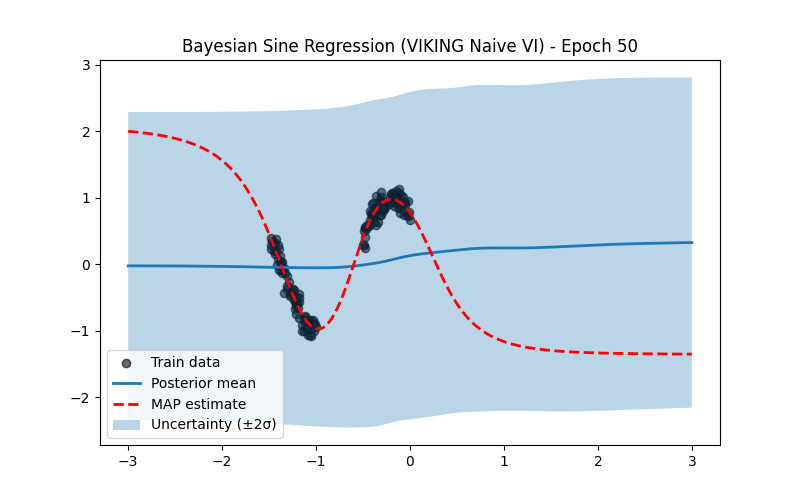
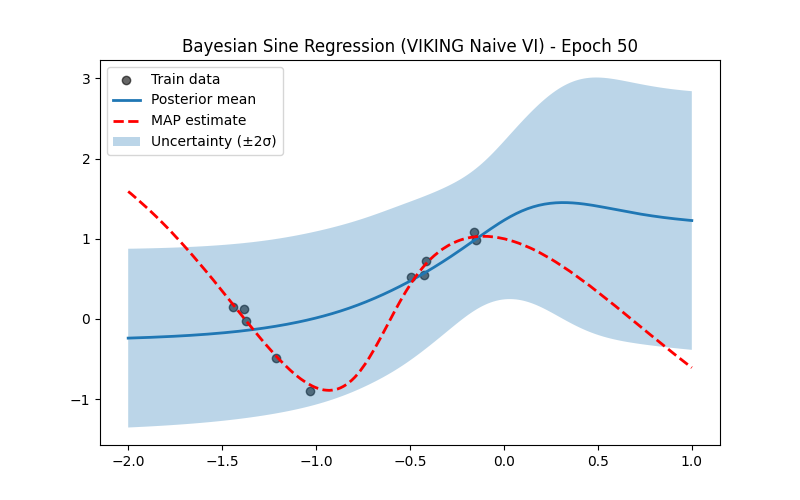
results with new prior kinda make sense. alpha still broken

diff --git a/experiments/VIKING_sine_curve_GGN.py b/experiments/VIKING_sine_curve_GGN.py
@@ -8,11 +8,10 @@ import sys
 sys.path.append(os.path.abspath(os.path.join(os.path.dirname(__file__), '..')))
 
 from src.models.sinenet import SineNet
-from src.sampling import calculate_UUt, calculate_UUt_svd, sample_theta
+from src.sampling import calculate_UUt_svd, sample_theta
 from src.utils import vectorize_nn
 from src.losses import sse_loss
 from src.plotting.naive_sine_plots import plot_bayesian_samples_with_mean, plot_mean_bayesian_with_MAP, predict_and_plot_bayesian_mean_for_epoch
-from src.data.sinedata import generate_data, generate_sine_data
 
 N = 10
 SEED = 42
@@ -31,9 +30,12 @@ def reconstruction_term(model_fn_vec, thetas, x, y):
     return jnp.mean(log_likelihoods)
 
 # KL term of the ELBO
-def KL_term(prior_vec, theta_hat, sigma_ker, sigma_im, eps_samples, eps_ker_samples, rank_ker=None):
-    sigma_ker_2 = jnp.exp(2*sigma_ker)
-    sigma_im_2 = jnp.exp(2*sigma_im)
+def KL_term(prior_vec, theta_hat, log_sigma_ker, log_sigma_im, eps_samples, eps_ker_samples, rank_ker=None):
+    sigma_ker = jnp.exp(log_sigma_ker)
+    sigma_im = jnp.exp(log_sigma_im)
+    sigma_ker_2 = jnp.pow(sigma_ker, 2)
+    sigma_im_2 = jnp.pow(sigma_im, 2)
+
     prior_vec_inv = 1.0 / prior_vec
     num_samples, D = eps_samples.shape
     hadamard_eps = eps_samples * eps_ker_samples
@@ -47,14 +49,18 @@ def KL_term(prior_vec, theta_hat, sigma_ker, sigma_im, eps_samples, eps_ker_samp
     ln_det_prior = jnp.sum(jnp.log(prior_vec))
 
     R = jnp.mean(jnp.sum(eps_samples * eps_ker_samples, axis=1))
-    ln_det_post = 2 * R * sigma_ker + 2 * (D - R) * sigma_im
+    ln_det_post = 2 * R * log_sigma_ker + 2 * (D - R) * log_sigma_im
+    kl = 0.5 * (trace - D + middle_term + ln_det_prior - ln_det_post)
 
-    return 0.5 * (trace - D + middle_term + ln_det_prior - ln_det_post)
+    return kl / float(D)
 
 # KL Term from the paper for debugging purposes
-def KL_term_alpha(theta_hat, sigma_ker, sigma_im, eps_samples, eps_ker_samples, rank_ker=None):
-    sigma_ker_2 = jnp.exp(2*sigma_ker)
-    sigma_im_2 = jnp.exp(2*sigma_im)
+def KL_term_alpha(theta_hat, log_sigma_ker, log_sigma_im, eps_samples, eps_ker_samples, rank_ker=None):
+    sigma_ker = jnp.exp(log_sigma_ker)
+    sigma_ker_2 = jnp.pow(sigma_ker, 2)
+    sigma_im = jnp.exp(log_sigma_im)
+    sigma_im_2 = jnp.pow(sigma_im, 2)
+
     alpha = 1.0 / sigma_ker_2
     num_samples, D = eps_samples.shape
 
@@ -68,13 +74,15 @@ def KL_term_alpha(theta_hat, sigma_ker, sigma_im, eps_samples, eps_ker_samples, 
     trace = sigma_ker_2 * R + sigma_im_2 * (D - R)
 
     # Ln(Σ)
-    ln_det_post = 2 * R * sigma_ker + 2 * (D - R) * sigma_im
-
-    return 0.5 * (
+    ln_det_post = 2 * R * log_sigma_ker + 2 * (D - R) * log_sigma_im
+    
+    kl = 0.5 * (
         alpha * trace - D + alpha * (jnp.pow(jnp.linalg.norm(theta_hat), 2)) - D * jnp.log(alpha) - ln_det_post
     )
 
-# 5. Loss function (negative ELBO) that needs to be optimized with gradient descent
+    return kl / float(D)
+
+# Loss function (negative ELBO) that needs to be optimized with gradient descent
 def loss_fn(params_opt, model_fn_vec, UUt, x, y, sample_key, prior_vec, rank_ker=None):
     thetas, eps_samples, eps_ker_samples = sample_theta(
         key=sample_key,
@@ -89,23 +97,14 @@ def loss_fn(params_opt, model_fn_vec, UUt, x, y, sample_key, prior_vec, rank_ker
     rec_term = reconstruction_term(model_fn_vec, thetas, x, y)
 
     # KL term
-    """ kl = KL_term(
+    kl = KL_term(
         prior_vec=prior_vec,
         theta_hat=params_opt["theta"],
-        sigma_ker=params_opt["sigma_ker"],
-        sigma_im=params_opt["sigma_im"],
+        log_sigma_ker=params_opt["sigma_ker"],
+        log_sigma_im=params_opt["sigma_im"],
         eps_samples=eps_samples,
         eps_ker_samples=eps_ker_samples,
         rank_ker=rank_ker
-    ) """
-
-    kl = KL_term_alpha(
-        theta_hat=params_opt["theta"],
-        sigma_ker=params_opt["sigma_ker"],
-        sigma_im=params_opt["sigma_im"],
-        eps_samples=eps_samples,
-        eps_ker_samples=eps_ker_samples,
-        rank_ker = rank_ker
     )
 
     elbo = rec_term - kl
@@ -113,19 +112,18 @@ def loss_fn(params_opt, model_fn_vec, UUt, x, y, sample_key, prior_vec, rank_ker
     return -elbo, (rec_term, kl)
 
 def main():
-    prior_key, post_key, model_key, data_key = jax.random.split(jax.random.PRNGKey(SEED), num=4)
+    prior_key, post_key, model_key = jax.random.split(jax.random.PRNGKey(SEED), num=3)
 
     with open("./checkpoints/sine_regression.pickle", "rb") as f:
         checkpoint = pickle.load(f)
 
-    #x_train = checkpoint["train_stats"]["x_train"]
-    #y_train = checkpoint["train_stats"]["y_train"]
-    x_train, y_train = generate_data(n_train=10, key=data_key)
+    x_train = checkpoint["train_stats"]["x_train"]
+    y_train = checkpoint["train_stats"]["y_train"]
 
     params_dict_map = checkpoint["params"]
     model_map = checkpoint["train_stats"]["model"]
 
-    model_new = SineNet(out_dims=1, hidden_dim=8 ,num_layers=2)
+    model_new = SineNet(out_dims=1, hidden_dim=16 ,num_layers=2)
     params_new = model_new.init(model_key, x_train[:2])
 
     params_vec, unflatten, model_fn_vec = vectorize_nn(lambda p, x: model_new.apply(p, x), params_new)
@@ -142,7 +140,7 @@ def main():
     _, sample_key = jax.random.split(jax.random.PRNGKey(SEED))
 
     params_opt = {
-        #"prior_vec": prior_vec,
+        "prior_vec": prior_vec,
         "theta": params_vec,
         "sigma_ker": jnp.log(sigma_kernel),
         "sigma_im": jnp.log(sigma_image),
@@ -152,22 +150,45 @@ def main():
     optimizer = optax.adam(learning_rate=schedule)
     opt_state = optimizer.init(params_opt)
 
+    def loss_fn(params_opt, UUt, x, y, sample_key, prior_vec, rank_ker=None):
+        thetas, eps_samples, eps_ker_samples = sample_theta(
+            key=sample_key,
+            num_samples=100,
+            UUt=UUt,
+            theta_hat=params_opt["theta"],
+            sigma_ker=params_opt["sigma_ker"],
+            sigma_im=params_opt["sigma_im"]
+        )
+        # koristi model_fn_vec iz scope-a
+        rec_term = reconstruction_term(model_fn_vec, thetas, x, y)
+        kl = KL_term(
+            prior_vec=prior_vec,
+            theta_hat=params_opt["theta"],
+            log_sigma_ker=params_opt["sigma_ker"],
+            log_sigma_im=params_opt["sigma_im"],
+            eps_samples=eps_samples,
+            eps_ker_samples=eps_ker_samples,
+            rank_ker=rank_ker
+        )
+        elbo = rec_term - kl
+        return -elbo, (rec_term, kl)
+
+    num_epochs, log_every, plot_epochs = 4500, 75, [5, 25, 50, 100, 250, 500, 1000, 1500, 2000, 2500, 3000, 3500, 4000]
+    params_opt_current, opt_state_current, training_key = params_opt, opt_state, sample_key
+
     @jax.jit
-    def train_step(params_opt, opt_state, UUt, key, rank_ker):
+    def train_step(params_opt, opt_state, key):
+        UUt, rank_ker = calculate_UUt_svd(model_fn_vec, params_opt["theta"], x_train, y_train)
         key, subkey = jax.random.split(key)
         grad_fn = jax.value_and_grad(loss_fn, argnums=0, has_aux=True)
-        (loss, (rec_term, kl)), grads = grad_fn(params_opt, model_fn_vec, UUt, x_train, y_train, subkey, prior_vec, rank_ker)
+        (loss, (rec_term, kl)), grads = grad_fn(params_opt, UUt, x_train, y_train, subkey, prior_vec, rank_ker)
         updates, opt_state = optimizer.update(grads, opt_state)
         params_opt = optax.apply_updates(params_opt, updates)
         return loss, params_opt, opt_state, rec_term, kl
 
-    num_epochs, log_every, plot_epochs = 3000, 75, [5, 25, 50, 100, 250, 500, 1000, 2000]
-    params_opt_current, opt_state_current, training_key = params_opt, opt_state, sample_key
-
     for epoch in range(num_epochs):
         training_key, subkey = jax.random.split(training_key)
-        UUt, rank_ker = calculate_UUt_svd(model_fn_vec, params_opt_current["theta"], x_train, y_train)
-        loss, params_opt_current, opt_state_current, rec_term, kl = train_step(params_opt_current, opt_state_current, UUt, subkey, rank_ker)
+        loss, params_opt_current, opt_state_current, rec_term, kl = train_step(params_opt_current, opt_state_current, subkey)
 
         if epoch % log_every == 0 or epoch == num_epochs - 1:
             print(f"[Epoch {epoch}] Loss (-ELBO): {loss:.4f}")
@@ -177,6 +198,7 @@ def main():
         if epoch in plot_epochs:
             predict_and_plot_bayesian_mean_for_epoch(post_key, model_fn_vec, params_opt_current, UUt, y_map, x_train, y_train, epoch)
 
+    UUt, _ = calculate_UUt_svd(model_fn_vec, params_opt_current["theta"], x_train, y_train)
     thetas, _, _ = sample_theta(post_key, 50, UUt, params_opt_current["theta"], params_opt_current["sigma_ker"], params_opt_current["sigma_im"])
     y_preds = jax.vmap(lambda t: model_fn_vec(t, x_test))(thetas)
     y_mean, y_std = jnp.mean(y_preds, axis=0).squeeze(), jnp.std(y_preds, axis=0).squeeze()

diff --git a/experiments/train_sine_model.py b/experiments/train_sine_model.py
@@ -14,21 +14,21 @@ from src.data.sinedata import generate_data, f
 from src.utils import compute_num_params
 from src.losses import sse_loss
 
-N = 150
+N = 10
 BATCH_SIZE = 10
 NOISE_VAR = 0.01
 SEED = 42
 ALPHA = 1.0
-N_EPOCH = 1000
+N_EPOCH = 3000
 
 def main():
     model_key, data_key = jax.random.split(jax.random.PRNGKey(SEED))
-    x_train, y_train = generate_data(n_train=N, noise_var=NOISE_VAR, key=data_key)
+    x_train, y_train = generate_data(n_train=N, key=data_key, noise_var=NOISE_VAR)
     x_val = jnp.linspace(-2, 2, 100).reshape(-1, 1)
     y_val = f(x_val)
 
-    model = SineNet(out_dims=1, hidden_dim=8 ,num_layers=2)
-    params = model.init(model_key, x_train[:BATCH_SIZE])
+    model = SineNet(out_dims=1, hidden_dim=16 ,num_layers=2)
+    params = model.init(model_key, x_train[:2])
     n_batches = N // BATCH_SIZE
     rho =  1 / NOISE_VAR
     D = compute_num_params(params)
@@ -41,14 +41,10 @@ def main():
     opt_state = optim.init(params)
 
     def map_loss(params, x, y):
-        B = x.shape[0]
-        O = y.shape[-1]
         out = model.apply(params, x)
         vparams = tm.Vector(params)
         log_likelihood = (
-            -N * O / 2 * jnp.log(2 * jnp.pi)
-            + N * O / 2 * log_rho
-            - (N / B) * 0.5 * rho * jnp.sum(jax.vmap(sse_loss)(out, y))
+            -0.5 * rho * jnp.sum(jax.vmap(sse_loss)(out, y))
         )
         log_prior = -D / 2 * jnp.log(2 * jnp.pi) + D / 2 * log_alpha - 0.5 * ALPHA * vparams @ vparams
         loss = log_likelihood + log_prior

diff --git a/src/sampling.py b/src/sampling.py
@@ -40,7 +40,7 @@ def calculate_UUt(model_fn, params_vec, x_train, y_train):
     UUt = I_p - (V @ (1.0 - null_mask)) @ V.T
     return UUt
 
-def calculate_UUt_svd(model_fn, params_vec, x_train, y_train, rtol=1e-4):
+def calculate_UUt_svd(model_fn, params_vec, x_train, y_train, tol=1e-2):
     # Jacobian: shape (N, D)
     J = compute_J(params_vec, model_fn, x_train, y_train)  # (N, D)
     D = J.shape[1]
@@ -49,15 +49,15 @@ def calculate_UUt_svd(model_fn, params_vec, x_train, y_train, rtol=1e-4):
     U, S, VT = jnp.linalg.svd(J, full_matrices=False)  # VT: (D, D)
 
     # Determine rank (non-negligible singular values)
-    tol = rtol * jnp.max(S)
-    r = jnp.sum(S > tol)
+    null_mask = S <= tol
+    rank_ker = jnp.sum(null_mask)
 
-    # Kernel basis is last D - r columns of V^T
-    V_null = VT[r:].T  # (D, D - r)
+    # Right-singular vectors corresponding to nullspace
+    V_null = VT[null_mask].T  # shape (D, rank_ker)
 
     # Projection onto kernel subspace
     UUt = V_null @ V_null.T
-    return UUt, D - r
+    return UUt, rank_ker
 
 def sample_theta(key, num_samples, UUt, theta_hat, sigma_ker, sigma_im):
     D = theta_hat.shape[0]

diff --git a/src/plotting/naive_sine_plots.py b/src/plotting/naive_sine_plots.py
@@ -67,4 +67,4 @@ def predict_and_plot_bayesian_mean_for_epoch(post_key, model_fn_vec, params_opt_
 
     plt.legend()
     plt.title(f"Bayesian Sine Regression (VIKING Naive VI) - Epoch {epoch}")
-    plt.savefig(f"results/plots/per_epoch/alpha/Mean_Bayesian_with_MAP_epoch_{epoch}.png")
+    plt.savefig(f"results/plots/per_epoch/prior_vec/Mean_Bayesian_with_MAP_epoch_{epoch}.png")
